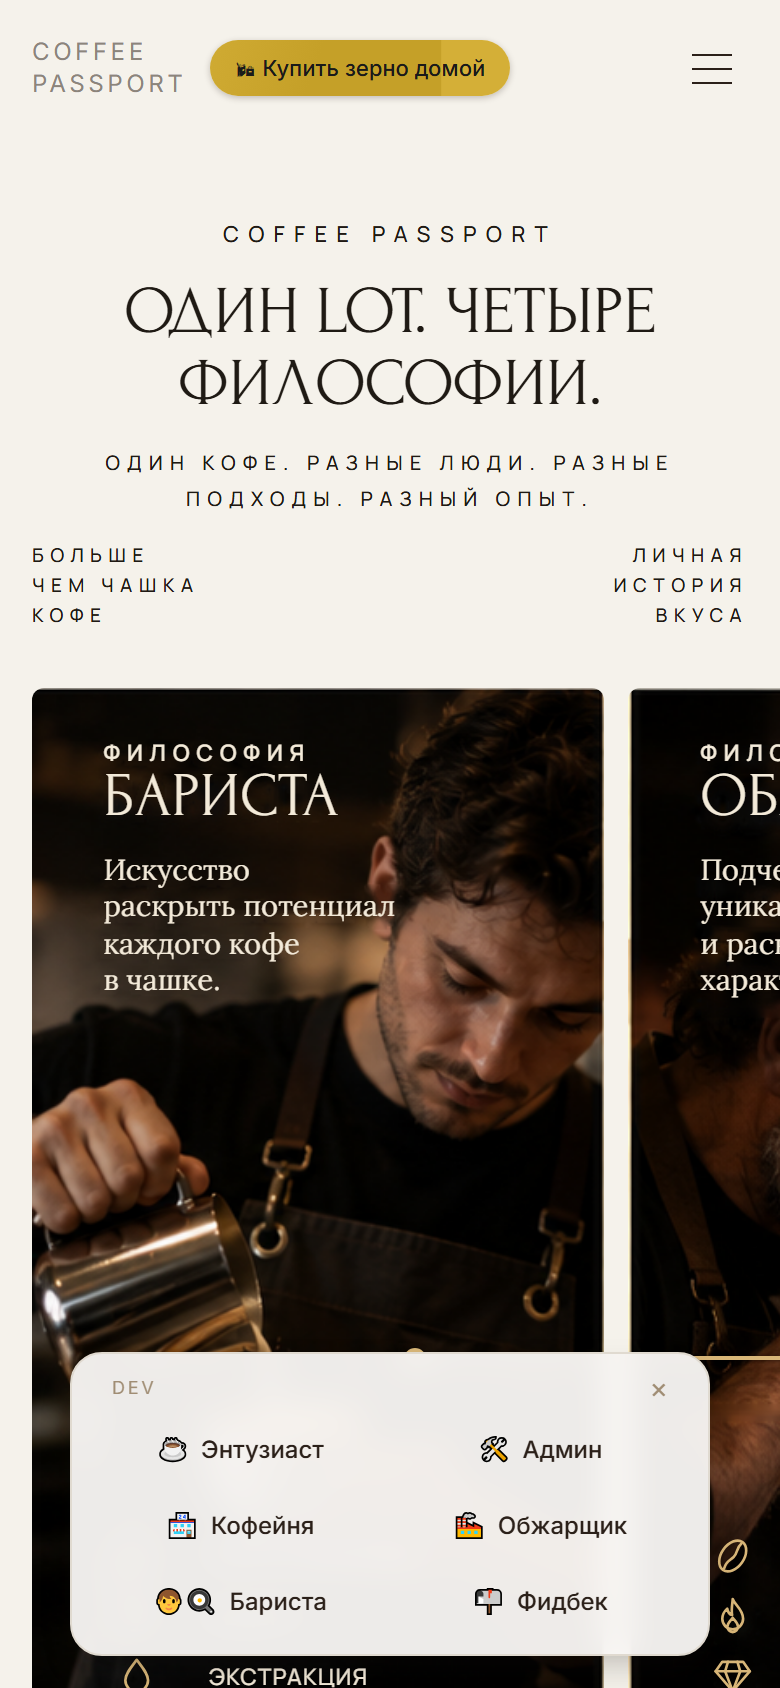
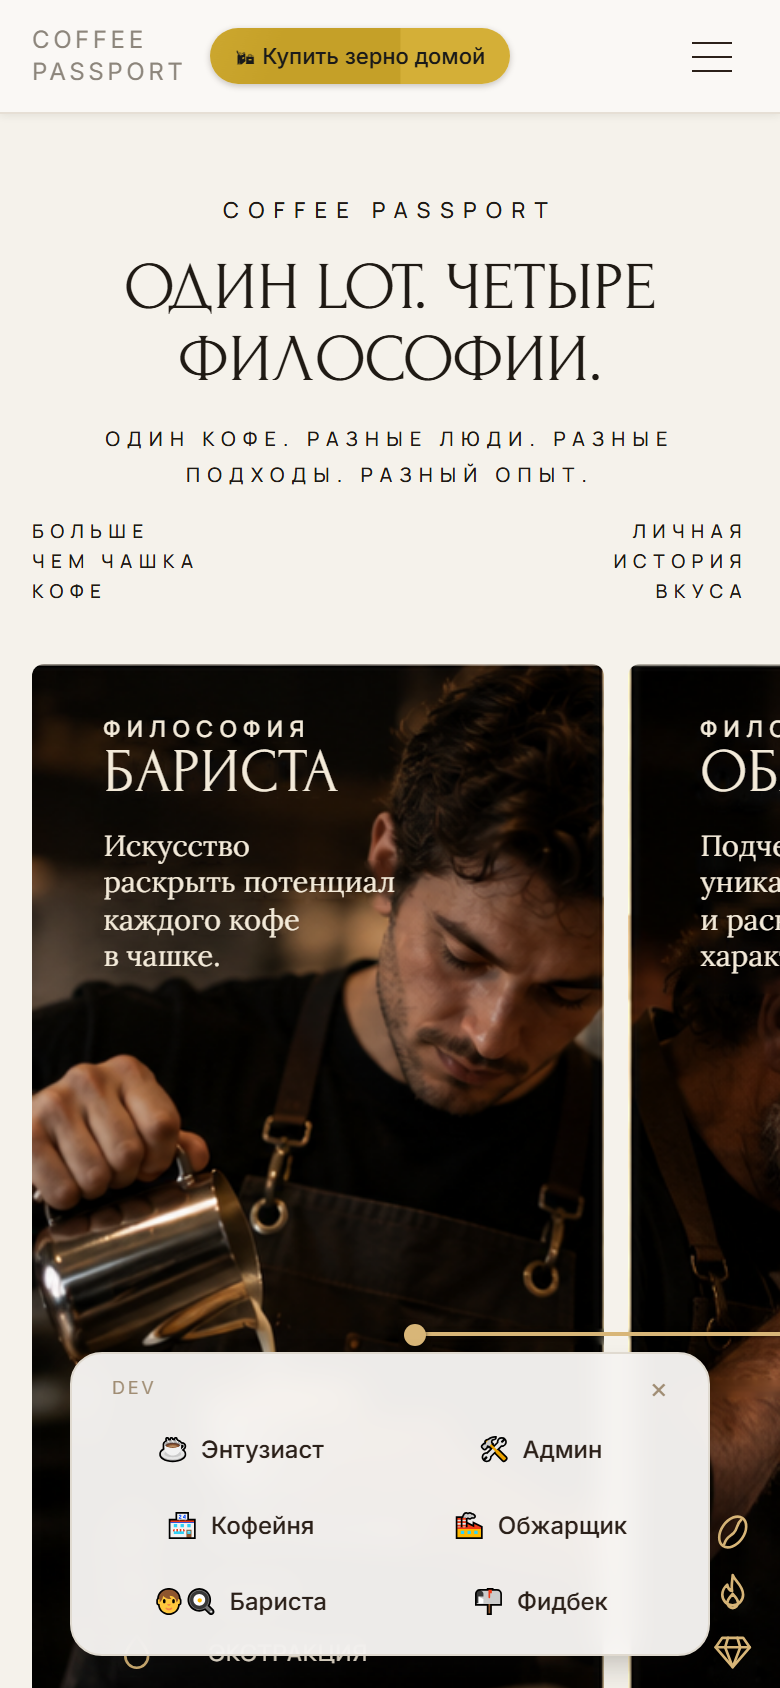
пакет №3, задача 2: липкая шапка на всех страницах сайта — sticky top-0 z-40 (ниже модалок z-50), непрозрачный фон + граница + тень, компактная мобильная высота; Leaflet-панели замкнуты в контейнер (z-index: 0), scroll-padding-top для якорей

diff --git a/components/shared/Navbar.tsx b/components/shared/Navbar.tsx
@@ -28,7 +28,15 @@ export function Navbar({ session }: { session: { role: ProfileRole } | null }) {
   const items = navItemsFor(session, currentPath);
 
   return (
-    <header className="relative px-4 sm:px-6 py-4 border-b border-ink-100/0">
+    // Липкая шапка (пакет №3): sticky — при скролле остаётся наверху с
+    // непрозрачным фоном, границей и тенью; z-40 — НИЖЕ модалок/дроуера/
+    // панели уведомлений (z-50), чтобы не перекрывать их. Leaflet-панели
+    // карты (z до 1000) держим внутри .leaflet-container через z-index: 0
+    // в globals.css — иначе тайлы/маркеры рисовались бы поверх шапки.
+    // На мобиле — компактная высота (py-2.5), чипса «Купить зерно домой»
+    // остаётся на месте.
+    <header className="sticky top-0 z-40 bg-parchment-100 px-4 sm:px-6 py-2.5 md:py-4
+                       border-b border-ink-100 shadow-[0_1px_4px_rgba(43,33,24,0.08)]">
       <div className="flex items-center justify-between gap-3">
         <div className="flex items-center gap-3 min-w-0">
           <Link

diff --git a/app/globals.css b/app/globals.css
@@ -33,6 +33,9 @@
 /* Базовые стили для элементов */
 html {
   scroll-behavior: smooth;
+  /* Якорные переходы не должны прятать цель под липкой шапкой
+     (components/shared/Navbar.tsx): её высота ≈55–70px, 4.5rem — с запасом. */
+  scroll-padding-top: 4.5rem;
 }
 
 body {
@@ -249,6 +252,15 @@ select:autofill {
 
 /* /map module (components/map/*): the only attribution is the OSM credit the
    tile usage policy requires — small, in the corner, without Leaflet's flag. */
+/* Липкая шапка (z-40) против Leaflet: панели карты живут с z-index до 1000
+   (tile 200, overlay 400, marker 600, control 800, tooltip/popup 1200+) и
+   без собственного stacking context рисовались бы поверх шапки при скролле.
+   z-index: 0 у контейнера (position уже relative в leaflet.css) замыкает
+   все панели внутрь карты. */
+.leaflet-container {
+  z-index: 0;
+}
+
 .leaflet-container .leaflet-control-attribution {
   font-size: 10px;
   line-height: 1.4;
